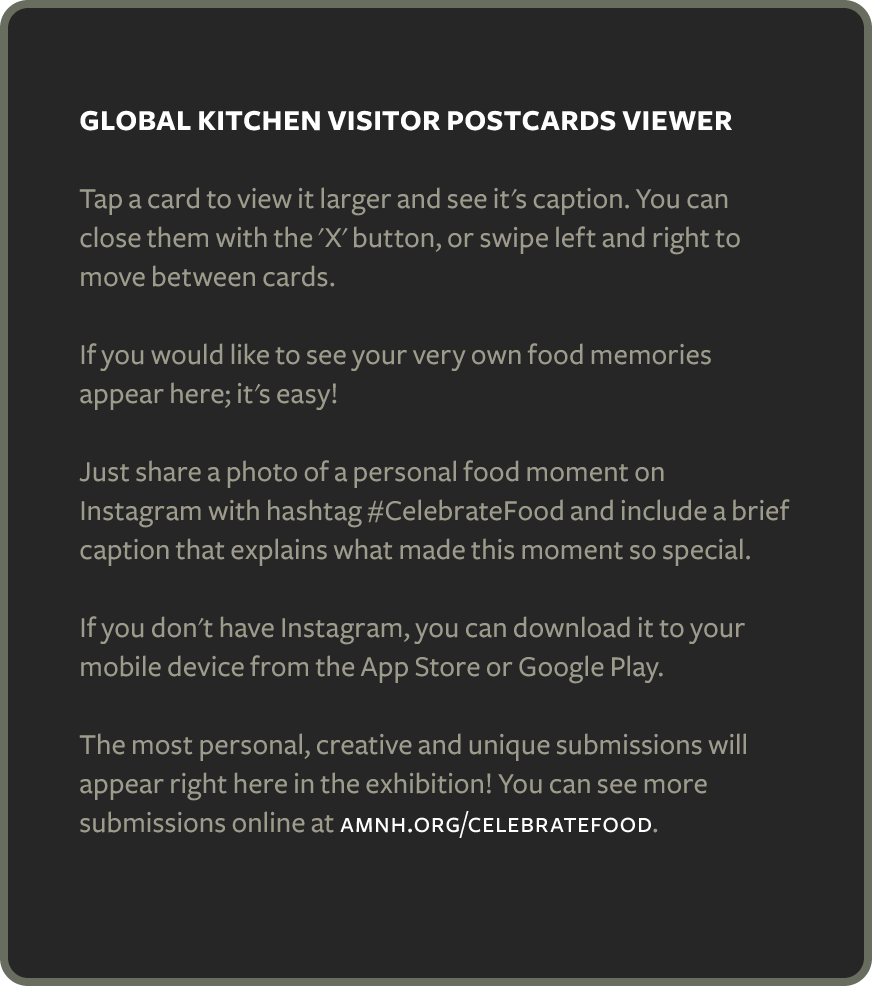
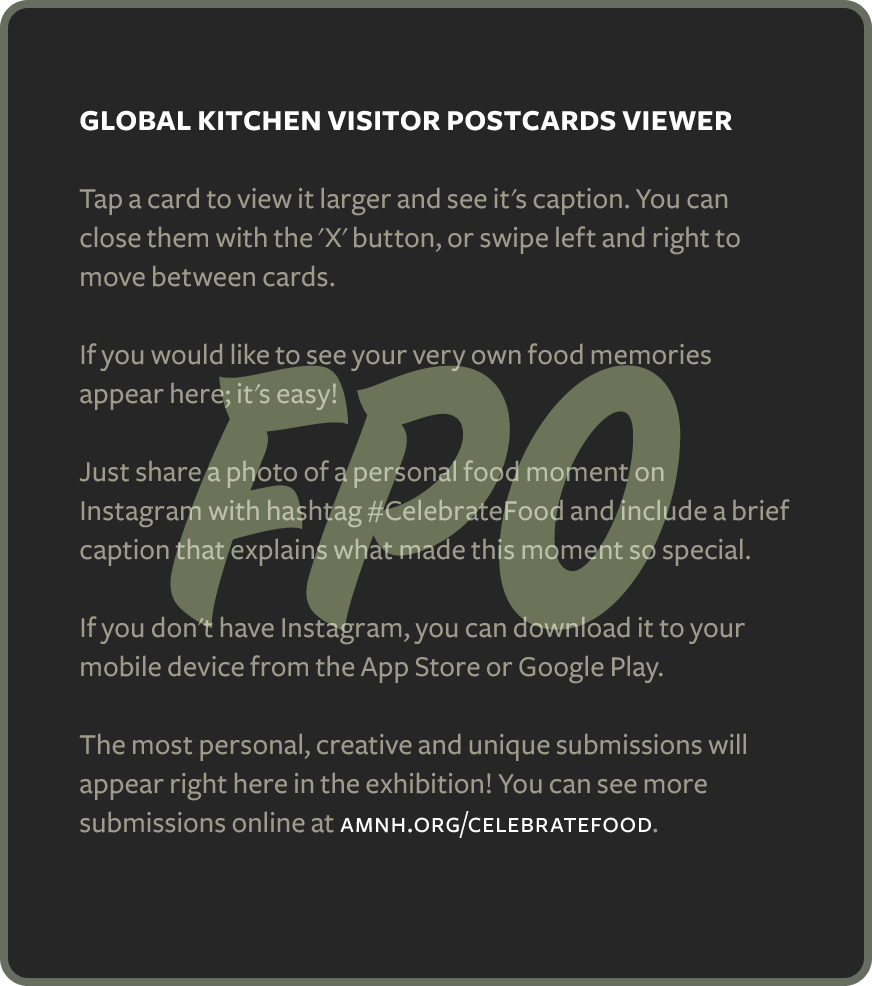
timeout to 60 and info section FPO for gallery

Changed region(s): [[0.1858, 0.3651, 0.805, 0.6389]]

diff --git a/resources/data.js b/resources/data.js
@@ -1,6 +1,6 @@
 {
     "debugstate"    :   0,
-    "timeout"       :   30,
+    "timeout"       :   60,
 	"basepath"      :   "assets/opening",
 	
     "cards" : [
